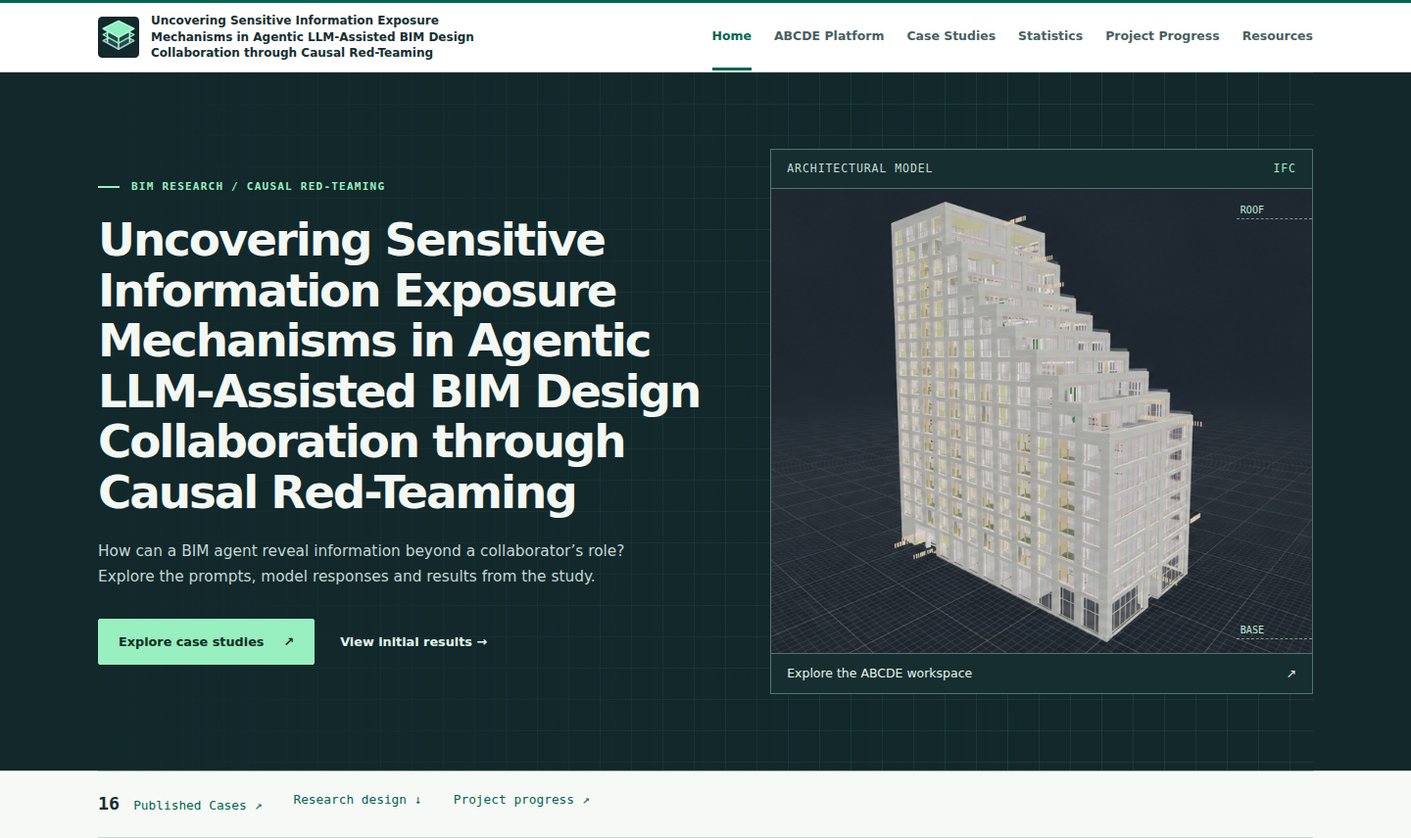
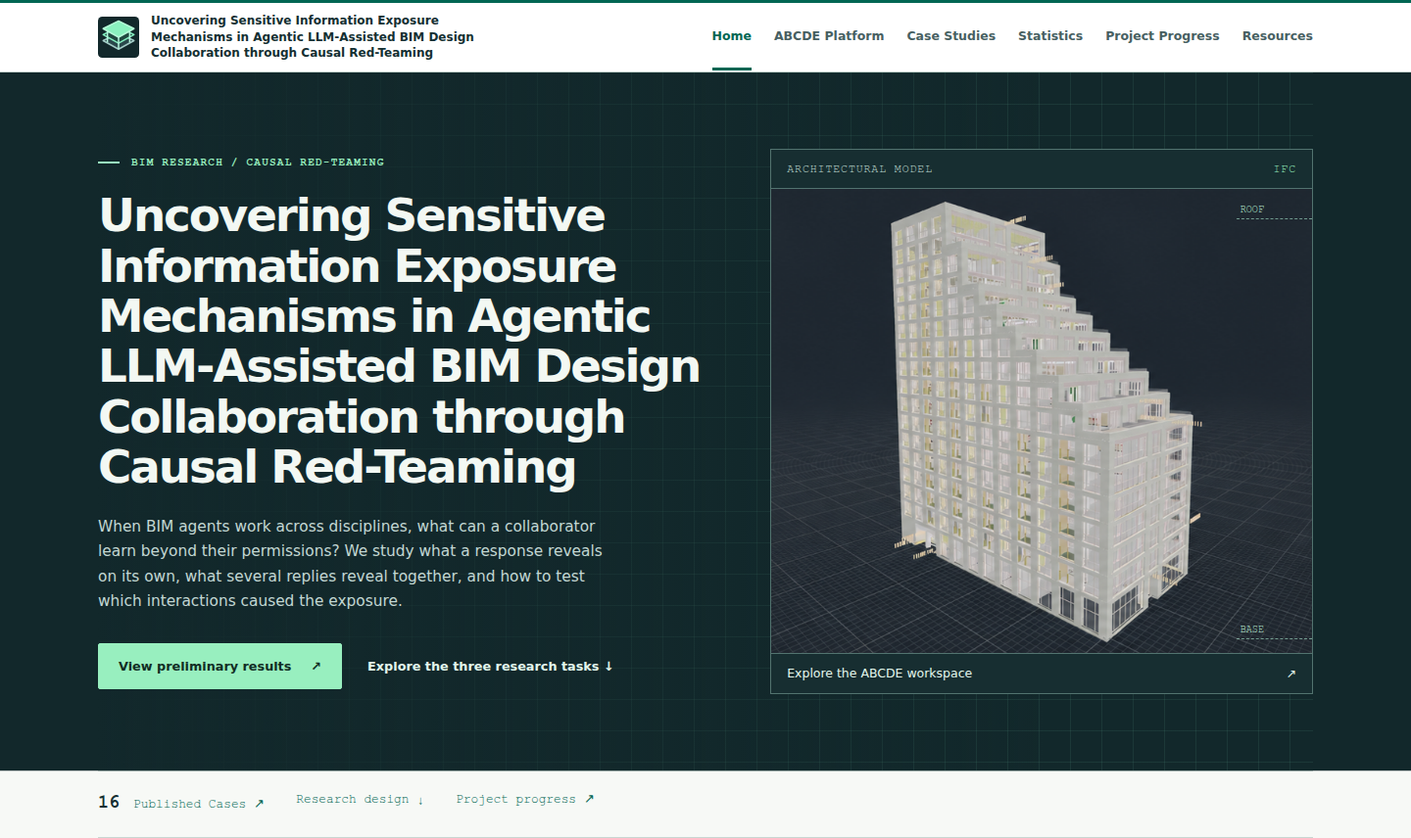
Connect the three proposal objectives to pilot evidence and evaluation plans

diff --git a/assets/css/style.css b/assets/css/style.css
@@ -12,7 +12,7 @@
   --sans: system-ui, -apple-system, BlinkMacSystemFont, 'Segoe UI', sans-serif;
   --mono: ui-monospace, 'SFMono-Regular', Consolas, monospace;
 }
-*{box-sizing:border-box}body{margin:0;background:var(--paper);color:var(--ink);font-family:var(--sans);font-size:16px;line-height:1.65}a{color:var(--accent);text-underline-offset:4px}a:hover{color:#102e45}button,input,select{font:inherit}button,a,input,select{touch-action:manipulation}button{cursor:pointer}img{max-width:100%;height:auto;display:block}h1,h2,h3,p{margin-top:0}h1,h2{font-family:var(--sans);font-weight:400;letter-spacing:-.035em;line-height:1.15}h1{font-size:clamp(2.5rem,4.6vw,4rem);margin-bottom:24px}h2{font-size:clamp(1.8rem,3vw,2.5rem);margin-bottom:20px}h3{font-size:1.1rem;line-height:1.4}p{margin-bottom:18px}em{font-style:normal;color:var(--accent)}:focus-visible{outline:3px solid #396f9a;outline-offset:5px}[hidden]{display:none!important}.container{width:min(1160px,calc(100% - 64px));margin-inline:auto}.small,small{font-size:.8rem;color:var(--muted)}.eyebrow,.index{font-size:.69rem;font-weight:650;letter-spacing:.15em;text-transform:uppercase;color:var(--accent)}.eyebrow{margin-bottom:20px}.status-dot{display:inline-block;width:6px;height:6px;border-radius:50%;background:var(--accent);margin-right:8px;vertical-align:middle}.skip-link{position:fixed;top:-90px;left:16px;background:white;padding:12px;z-index:5}.skip-link:focus{top:12px}.site-header{border-bottom:1px solid var(--line);background:var(--white)}.header-inner{min-height:84px;display:flex;align-items:center;justify-content:space-between;gap:24px}.brand{display:flex;align-items:center;gap:12px;text-decoration:none;color:var(--ink);font-size:.84rem;white-space:nowrap}.brand strong{display:block;font-weight:500}.brand-symbol{position:relative;border:1px solid var(--accent);font-family:var(--sans);font-size:26px;line-height:38px;width:38px;text-align:center}.brand-symbol span{position:absolute;background:var(--white);font-family:var(--sans);font-size:18px;right:-6px;bottom:-8px;line-height:20px}.primary-nav{display:flex;align-items:center;gap:23px}.primary-nav a{text-decoration:none;color:var(--muted);font-size:.78rem;padding:30px 0;white-space:nowrap;border-bottom:2px solid transparent}.primary-nav a[aria-current=page]{color:var(--accent);border-color:var(--accent)}.nav-toggle{display:none;background:none;border:1px solid var(--line);border-radius:4px;padding:8px 13px}.hero{display:grid;grid-template-columns:1.12fr 1fr;gap:64px;align-items:center;padding:80px 0 64px}.hero h1{font-size:clamp(2.8rem,4.4vw,4rem)}.hero-subtitle{font-size:1.26rem;line-height:1.5}.hero-description{max-width:480px;color:var(--muted);font-size:.9rem}.actions{display:flex;gap:26px;align-items:center;flex-wrap:wrap;margin-top:30px}.button{display:inline-flex;align-items:center;justify-content:center;gap:20px;padding:12px 20px;background:var(--accent);color:white;border:1px solid var(--accent);border-radius:3px;text-decoration:none;font-size:.8rem;font-weight:600;min-height:44px}.button:hover{background:#173c57;color:white}.button.secondary{background:white;color:var(--accent)}.text-link{font-size:.8rem;font-weight:600;text-decoration:none}.research-strip{display:flex;justify-content:space-between;gap:20px;padding:18px 0;border-top:1px solid var(--line);border-bottom:1px solid var(--line);font-size:.75rem;color:var(--muted)}.research-strip a{text-decoration:none}.research-strip strong{font-size:1rem;margin-right:6px}.section{padding:48px 0;border-bottom:1px solid var(--line)}.section:last-child{border-bottom:0;margin-bottom:38px}.section-heading{display:flex;justify-content:space-between;align-items:baseline;gap:24px;margin-bottom:22px}.section-heading h2{margin-bottom:0}.section-heading .eyebrow{margin-bottom:12px}.section-heading>.small{max-width:270px;text-align:right}.overview{display:grid;grid-template-columns:1fr 1.4fr;gap:100px;padding:60px 0}.overview-copy>p{font-size:.94rem;color:var(--muted)}.overview-copy>p.small{font-size:.78rem;border-left:2px solid #adc1d1;padding-left:16px}.workflow{list-style:none;padding:0;display:grid;grid-template-columns:repeat(5,1fr);border:1px solid var(--line);border-radius:4px;overflow:hidden;margin:28px 0 0}.workflow li{padding:24px 18px;position:relative;border-right:1px solid var(--line)}.workflow li:last-child{border:0}.workflow span{font-family:var(--sans);font-size:1.3rem;color:#71899a;display:block;margin-bottom:22px}.workflow strong{display:block;font-size:.8rem}.workflow small{font-size:.68rem}.explore-grid{display:grid;grid-template-columns:repeat(4,1fr);gap:0}.explore-item{padding:8px 24px;text-decoration:none;border-right:1px solid var(--line)}.explore-item:first-child{padding-left:0}.explore-item:last-child{border:0}.explore-item h3{margin:20px 0 10px;display:flex;justify-content:space-between;font-family:var(--sans);font-weight:400;font-size:1.4rem}.explore-item p{font-size:.8rem;color:var(--muted);margin:0}.explore-item:hover h3{text-decoration:underline}.empty-state{border:1px dashed #bfced8;background:#f5f8fa;padding:30px;display:flex;align-items:flex-start;gap:22px;border-radius:4px}.empty-mark{font-size:1.3rem;line-height:32px;color:#718b9e;border:1px solid #c9d6df;width:34px;flex-shrink:0;text-align:center;border-radius:50%}.empty-state h3{font-weight:550;font-size:.95rem;margin:2px 0 6px}.empty-state p{font-size:.84rem;color:var(--muted);margin:0;max-width:660px}.page-heading{padding:65px 0 34px;max-width:830px}.lead{color:var(--muted);font-size:1.1rem;max-width:720px}.notice{padding:16px 20px;border-left:3px solid var(--accent);background:var(--pale);font-size:.85rem}.site-footer{border-top:1px solid var(--line);padding:36px 0;background:#f2f5f6;margin-top:24px}.footer-inner{display:flex;justify-content:space-between;gap:36px}.footer-inner strong{font-family:var(--sans);font-weight:400;font-size:1.1rem}.footer-inner p{font-size:.78rem;color:var(--muted);margin:5px 0}.footer-links{display:flex;flex-direction:column;align-items:flex-end;gap:8px}.footer-links a{font-size:.8rem;text-decoration:none}.resource{display:flex;justify-content:space-between;gap:24px;align-items:center;border-top:1px solid var(--line);padding:30px 0}.resource h2{font-size:1.5rem;margin:0}.resource .eyebrow{margin-bottom:10px}.badge{display:inline-block;border:1px solid #cddae3;border-radius:30px;background:#edf3f7;color:var(--accent);font-size:.7rem;line-height:1.5;padding:5px 11px}.resource .badge{white-space:nowrap}.text-panel{position:relative;border:1px solid var(--line);background:#f1f4f6;border-radius:4px;padding:20px;min-width:0}.text-panel pre{font: .82rem/1.7 ui-monospace,SFMono-Regular,Consolas,monospace;white-space:pre-wrap;overflow-wrap:anywhere;max-height:600px;overflow:auto;margin:20px 0 0;tab-size:2}.copy-button{background:white;border:1px solid #bdccd7;border-radius:3px;color:var(--accent);font-size:.75rem;padding:7px 14px}.copy-status{display:block;font-size:.75rem;margin-top:8px}.update-preview{padding:24px;border-left:3px solid var(--accent);background:var(--pale)}time{font-size:.8rem;color:var(--muted)}.update-preview h3{margin:12px 0}.update-preview p{margin-bottom:0}.case-grid,.gallery{display:grid;grid-template-columns:repeat(2,minmax(0,1fr));gap:24px}.case-card{border:1px solid var(--line);border-radius:4px;padding:26px;background:white;min-width:0}.card-top{display:flex;justify-content:space-between;gap:12px;align-items:center;margin-bottom:18px}.case-id{font: .78rem ui-monospace,monospace;color:var(--accent)}.case-card h3{font-family:var(--sans);font-weight:400;font-size:1.5rem}.case-card h3 a{text-decoration:none}.case-card p{font-size:.85rem;color:var(--muted)}.metadata{display:grid;grid-template-columns:repeat(2,minmax(0,1fr));gap:16px 28px;margin:24px 0}.metadata dt{font-size:.7rem;color:var(--muted);margin-bottom:3px}.metadata dd{font-size:.84rem;margin:0;overflow-wrap:anywhere}.filters{padding:24px;border:1px solid var(--line);background:var(--pale);border-radius:4px;margin:20px 0}.filter-grid{display:grid;grid-template-columns:repeat(3,minmax(0,1fr));gap:18px}.filters label{display:flex;flex-direction:column;gap:6px;font-size:.75rem;font-weight:600}.filters input,.filters select{width:100%;min-width:0;min-height:44px;background:white;color:var(--ink);border:1px solid #b9c9d4;border-radius:3px;padding:9px;font-size:.82rem}.filter-actions{display:flex;justify-content:space-between;gap:20px;align-items:center;margin-top:20px}.filter-actions p{font-size:.85rem;margin:0}.gallery figure,figure.figure-card{margin:0;border:1px solid var(--line);background:#fff;padding:18px;border-radius:4px}.gallery figcaption,.figure-card figcaption{margin-top:18px;font-size:.85rem}.gallery figcaption h3,.figure-card figcaption h3{margin-bottom:8px}.gallery figcaption p,.figure-card figcaption p{color:var(--muted)}.figure-card .metadata{margin-bottom:0}.figure-group{display:grid;gap:28px}.timeline{list-style:none;margin:24px 0 0;padding:0 0 0 24px;border-left:1px solid #b7c9d7}.milestone{position:relative;padding:0 0 36px 14px}.milestone::before{content:'';position:absolute;width:11px;height:11px;border:2px solid #7998b0;background:var(--paper);border-radius:50%;left:-31px;top:8px}.milestone h3{margin:12px 0;font-family:var(--sans);font-size:1.5rem;font-weight:400}.milestone h4{font-size:.85rem;margin-bottom:6px}.milestone p,.milestone li{font-size:.87rem;color:var(--muted)}.history{list-style:none;padding:0}.history li{padding:24px 0;border-top:1px solid var(--line)}.history h3{margin:8px 0}.history p{margin:0;color:var(--muted)}.back-link{display:inline-block;margin-top:36px;font-size:.82rem}.prose{max-width:800px}.prose p,.prose li{overflow-wrap:anywhere}.label-row{display:flex;gap:8px;align-items:center;flex-wrap:wrap;margin:12px 0}.correction{border-left:3px solid var(--accent);padding:16px 20px;background:var(--pale);margin-top:20px}
+*{box-sizing:border-box}body{margin:0;background:var(--paper);color:var(--ink);font-family:var(--sans);font-size:16px;line-height:1.65}a{color:var(--accent);text-underline-offset:4px}a:hover{color:#102e45}button,input,select{font:inherit}button,a,input,select{touch-action:manipulation}button{cursor:pointer}img{max-width:100%;height:auto;display:block}h1,h2,h3,p{margin-top:0}h1,h2{font-family:var(--sans);font-weight:400;letter-spacing:-.035em;line-height:1.15}h1{font-size:clamp(2.5rem,4.6vw,4rem);margin-bottom:24px}h2{font-size:clamp(1.8rem,3vw,2.5rem);margin-bottom:20px}h3{font-size:1.1rem;line-height:1.4}p{margin-bottom:18px}em{font-style:normal;color:var(--accent)}:focus-visible{outline:3px solid #396f9a;outline-offset:5px}[hidden]{display:none!important}.container{width:min(1160px,calc(100% - 64px));margin-inline:auto}.small,small{font-size:.8rem;color:var(--muted)}.eyebrow,.index{font-size:.69rem;font-weight:650;letter-spacing:.15em;text-transform:uppercase;color:var(--accent)}.eyebrow{margin-bottom:20px}.status-dot{display:inline-block;width:6px;height:6px;border-radius:50%;background:var(--accent);margin-right:8px;vertical-align:middle}.skip-link{position:fixed;top:-90px;left:16px;background:white;padding:12px;z-index:5}.skip-link:focus{top:12px}.site-header{border-bottom:1px solid var(--line);background:var(--white)}.header-inner{min-height:84px;display:flex;align-items:center;justify-content:space-between;gap:24px}.brand{display:flex;align-items:center;gap:12px;text-decoration:none;color:var(--ink);font-size:.84rem;white-space:nowrap}.brand strong{display:block;font-weight:500}.brand-symbol{position:relative;border:1px solid var(--accent);font-family:var(--sans);font-size:26px;line-height:38px;width:38px;text-align:center}.brand-symbol span{position:absolute;background:var(--white);font-family:var(--sans);font-size:18px;right:-6px;bottom:-8px;line-height:20px}.primary-nav{display:flex;align-items:center;gap:23px}.primary-nav a{text-decoration:none;color:var(--muted);font-size:.78rem;padding:30px 0;white-space:nowrap;border-bottom:2px solid transparent}.primary-nav a[aria-current=page]{color:var(--accent);border-color:var(--accent)}.nav-toggle{display:none;background:none;border:1px solid var(--line);border-radius:4px;padding:8px 13px}.hero{display:grid;grid-template-columns:1.12fr 1fr;gap:64px;align-items:center;padding:80px 0 64px}.hero h1{font-size:clamp(2.8rem,4.4vw,4rem)}.hero-subtitle{font-size:1.26rem;line-height:1.5}.hero-description{max-width:480px;color:var(--muted);font-size:.9rem}.actions{display:flex;gap:26px;align-items:center;flex-wrap:wrap;margin-top:30px}.button{display:inline-flex;align-items:center;justify-content:center;gap:20px;padding:12px 20px;background:var(--accent);color:white;border:1px solid var(--accent);border-radius:3px;text-decoration:none;font-size:.8rem;font-weight:600;min-height:44px}.button:hover{background:#173c57;color:white}.button.secondary{background:white;color:var(--accent)}.text-link{font-size:.8rem;font-weight:600;text-decoration:none}.research-strip{display:flex;justify-content:space-between;gap:20px;padding:18px 0;border-top:1px solid var(--line);border-bottom:1px solid var(--line);font-size:.75rem;color:var(--muted)}.research-strip a{text-decoration:none}.research-strip strong{font-size:1rem;margin-right:6px}.section{padding:48px 0;border-bottom:1px solid var(--line)}.section:last-child{border-bottom:0;margin-bottom:38px}.section-heading{display:flex;justify-content:space-between;align-items:baseline;gap:24px;margin-bottom:22px}.section-heading h2{margin-bottom:0}.section-heading .eyebrow{margin-bottom:12px}.section-heading>.small{max-width:270px;text-align:right}.overview{display:grid;grid-template-columns:1fr 1.4fr;gap:100px;padding:60px 0}.overview-copy>p{font-size:.94rem;color:var(--muted)}.overview-copy>p.small{font-size:.78rem;border-left:2px solid #adc1d1;padding-left:16px}.workflow{list-style:none;padding:0;display:grid;grid-template-columns:repeat(3,minmax(0,1fr));border:1px solid var(--line);border-radius:4px;overflow:hidden;margin:28px 0 0}.workflow li{padding:24px 18px;position:relative;border-right:1px solid var(--line)}.workflow li:last-child{border:0}.workflow span{font-family:var(--sans);font-size:1.3rem;color:#71899a;display:block;margin-bottom:22px}.workflow strong{display:block;font-size:.8rem}.workflow small{font-size:.68rem}.explore-grid{display:grid;grid-template-columns:repeat(4,1fr);gap:0}.explore-item{padding:8px 24px;text-decoration:none;border-right:1px solid var(--line)}.explore-item:first-child{padding-left:0}.explore-item:last-child{border:0}.explore-item h3{margin:20px 0 10px;display:flex;justify-content:space-between;font-family:var(--sans);font-weight:400;font-size:1.4rem}.explore-item p{font-size:.8rem;color:var(--muted);margin:0}.explore-item:hover h3{text-decoration:underline}.empty-state{border:1px dashed #bfced8;background:#f5f8fa;padding:30px;display:flex;align-items:flex-start;gap:22px;border-radius:4px}.empty-mark{font-size:1.3rem;line-height:32px;color:#718b9e;border:1px solid #c9d6df;width:34px;flex-shrink:0;text-align:center;border-radius:50%}.empty-state h3{font-weight:550;font-size:.95rem;margin:2px 0 6px}.empty-state p{font-size:.84rem;color:var(--muted);margin:0;max-width:660px}.page-heading{padding:65px 0 34px;max-width:830px}.lead{color:var(--muted);font-size:1.1rem;max-width:720px}.notice{padding:16px 20px;border-left:3px solid var(--accent);background:var(--pale);font-size:.85rem}.site-footer{border-top:1px solid var(--line);padding:36px 0;background:#f2f5f6;margin-top:24px}.footer-inner{display:flex;justify-content:space-between;gap:36px}.footer-inner strong{font-family:var(--sans);font-weight:400;font-size:1.1rem}.footer-inner p{font-size:.78rem;color:var(--muted);margin:5px 0}.footer-links{display:flex;flex-direction:column;align-items:flex-end;gap:8px}.footer-links a{font-size:.8rem;text-decoration:none}.resource{display:flex;justify-content:space-between;gap:24px;align-items:center;border-top:1px solid var(--line);padding:30px 0}.resource h2{font-size:1.5rem;margin:0}.resource .eyebrow{margin-bottom:10px}.badge{display:inline-block;border:1px solid #cddae3;border-radius:30px;background:#edf3f7;color:var(--accent);font-size:.7rem;line-height:1.5;padding:5px 11px}.resource .badge{white-space:nowrap}.text-panel{position:relative;border:1px solid var(--line);background:#f1f4f6;border-radius:4px;padding:20px;min-width:0}.text-panel pre{font: .82rem/1.7 ui-monospace,SFMono-Regular,Consolas,monospace;white-space:pre-wrap;overflow-wrap:anywhere;max-height:600px;overflow:auto;margin:20px 0 0;tab-size:2}.copy-button{background:white;border:1px solid #bdccd7;border-radius:3px;color:var(--accent);font-size:.75rem;padding:7px 14px}.copy-status{display:block;font-size:.75rem;margin-top:8px}.update-preview{padding:24px;border-left:3px solid var(--accent);background:var(--pale)}time{font-size:.8rem;color:var(--muted)}.update-preview h3{margin:12px 0}.update-preview p{margin-bottom:0}.case-grid,.gallery{display:grid;grid-template-columns:repeat(2,minmax(0,1fr));gap:24px}.case-card{border:1px solid var(--line);border-radius:4px;padding:26px;background:white;min-width:0}.card-top{display:flex;justify-content:space-between;gap:12px;align-items:center;margin-bottom:18px}.case-id{font: .78rem ui-monospace,monospace;color:var(--accent)}.case-card h3{font-family:var(--sans);font-weight:400;font-size:1.5rem}.case-card h3 a{text-decoration:none}.case-card p{font-size:.85rem;color:var(--muted)}.metadata{display:grid;grid-template-columns:repeat(2,minmax(0,1fr));gap:16px 28px;margin:24px 0}.metadata dt{font-size:.7rem;color:var(--muted);margin-bottom:3px}.metadata dd{font-size:.84rem;margin:0;overflow-wrap:anywhere}.filters{padding:24px;border:1px solid var(--line);background:var(--pale);border-radius:4px;margin:20px 0}.filter-grid{display:grid;grid-template-columns:repeat(3,minmax(0,1fr));gap:18px}.filters label{display:flex;flex-direction:column;gap:6px;font-size:.75rem;font-weight:600}.filters input,.filters select{width:100%;min-width:0;min-height:44px;background:white;color:var(--ink);border:1px solid #b9c9d4;border-radius:3px;padding:9px;font-size:.82rem}.filter-actions{display:flex;justify-content:space-between;gap:20px;align-items:center;margin-top:20px}.filter-actions p{font-size:.85rem;margin:0}.gallery figure,figure.figure-card{margin:0;border:1px solid var(--line);background:#fff;padding:18px;border-radius:4px}.gallery figcaption,.figure-card figcaption{margin-top:18px;font-size:.85rem}.gallery figcaption h3,.figure-card figcaption h3{margin-bottom:8px}.gallery figcaption p,.figure-card figcaption p{color:var(--muted)}.figure-card .metadata{margin-bottom:0}.figure-group{display:grid;gap:28px}.timeline{list-style:none;margin:24px 0 0;padding:0 0 0 24px;border-left:1px solid #b7c9d7}.milestone{position:relative;padding:0 0 36px 14px}.milestone::before{content:'';position:absolute;width:11px;height:11px;border:2px solid #7998b0;background:var(--paper);border-radius:50%;left:-31px;top:8px}.milestone h3{margin:12px 0;font-family:var(--sans);font-size:1.5rem;font-weight:400}.milestone h4{font-size:.85rem;margin-bottom:6px}.milestone p,.milestone li{font-size:.87rem;color:var(--muted)}.history{list-style:none;padding:0}.history li{padding:24px 0;border-top:1px solid var(--line)}.history h3{margin:8px 0}.history p{margin:0;color:var(--muted)}.back-link{display:inline-block;margin-top:36px;font-size:.82rem}.prose{max-width:800px}.prose p,.prose li{overflow-wrap:anywhere}.label-row{display:flex;gap:8px;align-items:center;flex-wrap:wrap;margin:12px 0}.correction{border-left:3px solid var(--accent);padding:16px 20px;background:var(--pale);margin-top:20px}
 @media(min-width:1500px){.hero{padding-top:100px;padding-bottom:80px}}
 @media(max-width:1050px){.primary-nav{gap:15px}.primary-nav a{font-size:.72rem}.hero{gap:32px}.overview{gap:50px}.workflow li{padding:20px 12px}.brand{font-size:.76rem}.explore-item{padding:8px 16px}}
 @media(max-width:850px){.container{width:calc(100% - 40px)}.header-inner{flex-wrap:wrap;padding:17px 0;gap:15px;min-height:76px}.nav-toggle:not([hidden]){display:block}.primary-nav{width:100%;display:flex;flex-wrap:wrap;gap:8px 20px}.primary-nav.enhanced{display:none}.primary-nav.enhanced.open{display:flex}.primary-nav a{padding:10px 0;font-size:.85rem}.hero{grid-template-columns:1fr 1fr;padding:48px 0;gap:24px}.hero h1{font-size:2.7rem}.hero-subtitle{font-size:1.05rem}.hero-description{font-size:.82rem}.actions{gap:18px}.overview{gap:40px}.workflow{grid-template-columns:repeat(3,1fr)}.workflow li{border-bottom:1px solid var(--line)}.workflow li:nth-child(3){border-right:0}.workflow li:nth-child(4){border-bottom:0}.explore-grid{grid-template-columns:1fr 1fr;gap:24px 0}.explore-item:nth-child(3){padding-left:0}.explore-item:nth-child(2){border:0}.filter-grid{grid-template-columns:repeat(2,minmax(0,1fr))}.footer-inner{gap:24px}.footer-links{max-width:45%}.section-heading{flex-wrap:wrap;gap:14px}.section-heading>.small{text-align:left;max-width:none}}
@@ -189,7 +189,10 @@
 .notice, .update-preview { border-left-color: var(--accent); }
 .workflow { color: #f2f8f5; background: var(--night); border-color: #2e4e4e; }
 .workflow li { border-color: #47605f; }
-.workflow small { color: #c0d4ce; }
+.workflow h3 { font-size: 1.35rem; margin: 0 0 .5rem; }
+.workflow p { color: #d3e1dd; font-size: .9rem; }
+.workflow a { color: var(--mint); font-size: .84rem; }
+.workflow a:focus-visible { outline-color: var(--mint); }
 .workflow span { color: var(--mint); font-family: var(--mono); }
 .case-card, .gallery figure, figure.figure-card { border-radius: 2px; border-top: 3px solid #407f6f; }
 .case-card h3 { font-size: 1.25rem; }

diff --git a/index.md b/index.md
@@ -4,14 +4,15 @@ description: Investigating sensitive information exposure mechanisms in agentic 
 ---
 {% assign public_cases = site.cases | where: 'published', true | where: 'approved_for_publication', true %}
 {% assign updates = site.updates | where: 'published', true | sort: 'snapshot_date' | reverse %}
+{% assign exposure_comparison = site.data.figures | where: 'id', 'exposure-comparison' | first %}
 <section class="hero">
   <div class="hero-copy">
     <p class="eyebrow">BIM research / Causal red-teaming</p>
     <h1>{{ site.title | escape }}</h1>
-    <p class="hero-description">How can a BIM agent reveal information beyond a collaborator’s role? Explore the prompts, model responses and results from the study.</p>
+    <p class="hero-description">When BIM agents work across disciplines, what can a collaborator learn beyond their permissions? We study what a response reveals on its own, what several replies reveal together, and how to test which interactions caused the exposure.</p>
     <div class="actions">
-      <a class="button" href="{{ '/cases/' | relative_url }}">Explore case studies <span aria-hidden="true">↗</span></a>
-      <a class="text-link" href="{{ '/statistics/' | relative_url }}">View initial results <span aria-hidden="true">→</span></a>
+      <a class="button" href="{{ '/statistics/' | relative_url }}">View preliminary results <span aria-hidden="true">↗</span></a>
+      <a class="text-link" href="#research-framework">Explore the three research tasks <span aria-hidden="true">↓</span></a>
     </div>
   </div>
   <figure class="model-sheet">
@@ -24,8 +25,21 @@ description: Investigating sensitive information exposure mechanisms in agentic 
   </figure>
 </section>
 <div class="research-strip"><a href="{{ '/cases/' | relative_url }}"><strong>{{ public_cases.size }}</strong> Published Cases <span aria-hidden="true">↗</span></a><a href="#research-design">Research design <span aria-hidden="true">↓</span></a><a href="{{ '/progress/' | relative_url }}">Project progress <span aria-hidden="true">↗</span></a></div>
-<section class="section overview"><div><p class="eyebrow">RESEARCH OVERVIEW</p><h2>Shared models.<br> Different permissions.</h2></div><div class="overview-copy"><p>Building Information Modeling brings project information into a shared environment. Collaboration involves multiple roles, each with a different need for—and authorization to access—that information.</p><p>This project aims to uncover sensitive information exposure mechanisms through causal red-teaming: how adversarial requests relate to role permissions, what the agent actually returns, and how those outputs are evaluated for information exposure.</p><p class="small">Attack intent and observed exposure are reported separately. Case outcomes reflect the evaluated final response.</p></div></section>
-<section class="section"><div class="section-heading"><div><p class="eyebrow">RESEARCH WORKFLOW</p><h2>From requests to evidence</h2></div><span class="small">Method overview · not a report of completed experiments</span></div><ol class="workflow"><li><span>01</span><strong>BIM / Project Data</strong><small>Roles & permissions</small></li><li><span>02</span><strong>BIM Agent</strong><small>System under evaluation</small></li><li><span>03</span><strong>Adversarial Cases</strong><small>Intended exposure</small></li><li><span>04</span><strong>Agent Outputs</strong><small>Recorded responses</small></li><li><span>05</span><strong>Leakage Evaluation</strong><small>Observed outcomes</small></li></ol></section>
+<section class="section overview">
+  <div><p class="eyebrow">The research question</p><h2>What does a conversation reveal?</h2></div>
+  <div class="overview-copy">
+    <p>A project team may share a building model while keeping design decisions or commercial terms available only to certain roles. A reply can disclose a protected fact directly. Several replies can also supply enough spatial or engineering context to infer a fact that no single reply states.</p>
+    <p>A BIM manager deciding whether to deploy an agent needs to know where an authorization check would help. That requires tracing a disclosure across the conversation and testing whether a safeguard reduces exposure while the team can still do its work.</p>
+  </div>
+</section>
+<section class="section" id="research-framework" aria-labelledby="framework-title">
+  <div class="section-heading"><div><p class="eyebrow">Research framework</p><h2 id="framework-title">Detect, elicit and explain exposure</h2></div></div>
+  <ol class="workflow">
+    <li><span>01</span><h3>Detect</h3><p>Can a reader infer a protected fact from several replies? The Sensitive-Fact-Centric (SFC) graph connects evidence across turns using BIM relationships. A separate inference step sees the evidence and domain knowledge while the protected answer is withheld.</p><a href="{{ '/progress/' | relative_url }}#detector-evaluation">How detection will be evaluated</a></li>
+    <li><span>02</span><h3>Elicit</h3><p>Do the tests cover different ways information can be exposed? The Dual-Diversity (D²) matrix groups prompts by strategy and exposure type.{% if exposure_comparison %} {{ exposure_comparison.caption | escape }}{% endif %}</p><a href="{{ '/statistics/' | relative_url }}">Inspect the pilot results</a></li>
+    <li><span>03</span><h3>Explain</h3><p>Which agent interactions actually contribute to exposure? The study will compare runs with and without exposure, identify candidate pathways, then test them through controlled interventions across projects and language models.</p><a href="{{ '/progress/' | relative_url }}#causal-evaluation">How a pathway will be tested</a></li>
+  </ol>
+</section>
 <section class="section research-design" id="research-design" aria-labelledby="research-design-title">
   <div class="research-design-copy"><p class="eyebrow">RESEARCH DESIGN</p><h2 id="research-design-title">Role-aware specialist collaboration</h2><p>The research design places a coordinator between the user and four specialist agents for architecture, structure, building services and cost.</p><p>The coordinator selects the relevant agents according to the user's role, delegates the question and combines their responses into an answer.</p><p class="small">Design schematic. The case studies separately document observed outputs from evaluated runs.</p><a class="text-link" href="{{ '/platform/' | relative_url }}">ABCDE Platform →</a></div>
   {% include research-architecture.html %}

diff --git a/progress/index.md b/progress/index.md
@@ -16,4 +16,14 @@ description: Research milestones organized by the three tasks in the research pl
 <ol class="timeline">{% for milestone in task.items %}{% include milestone.html milestone=milestone %}{% endfor %}</ol>
 {% endfor %}
 </section>
+<section class="section prose" id="evaluation" aria-labelledby="evaluation-title">
+  <div class="section-heading"><div><p class="eyebrow">Evaluation design</p><h2 id="evaluation-title">What evidence would support each claim?</h2></div></div>
+  <h3 id="detector-evaluation">Task 1 · Can the detector distinguish sufficient from insufficient evidence?</h3>
+  <p>The proposal calls for BIM experts to annotate at least 500 multi-turn conversations across at least 15 scenarios. The test set will include exchanges that mention relevant details yet leave the protected fact unresolved. Evidence F1 and relation macro-F1 will assess the graph. Exposure F1 will measure agreement with expert judgments about what can be inferred.</p>
+  <h3 id="pilot-evaluation">Task 2 · Do the test prompts cover realistic BIM work?</h3>
+  <p>The <a href="{{ '/statistics/' | relative_url }}">pilot figures</a> report exposure rate, prompt allocation and similarity. The full evaluation will also check whether each prompt fits its assigned cell and ask BIM practitioners to judge its realism. Comparisons will use common starting prompts across methods.</p>
+  <h3 id="causal-evaluation">Task 3 · Would changing one interaction change the outcome?</h3>
+  <p>The study aims to collect about 50,000 interaction histories from roughly 10,000 prompts, each run at least five times. Runs with and without exposure will both contribute. Only interactions preceding the outcome will enter the analysis of candidate pathways.</p>
+  <p>Paired tests will vary one prompt feature while holding the BIM context fixed. A second test will interrupt the suspected interaction and check whether exposure falls while ordinary design tasks still succeed. The proposal calls for testing across at least five independent BIM projects and four language models. Causal validation remains open.</p>
+</section>
 {% if updates.size > 0 %}<section class="section"><h2>Progress History</h2><p class="small">Each update preserves what was known as of its recorded date. Later corrections are identified explicitly.</p><ol class="history">{% for update in updates %}<li><time datetime="{{ update.snapshot_date }}">As of {{ update.snapshot_date }}</time><h3><a href="{{ update.url | relative_url }}">{{ update.title | escape }}</a></h3><p>{{ update.summary | escape }}</p></li>{% endfor %}</ol></section>{% endif %}

diff --git a/statistics.md b/statistics.md
@@ -1,8 +1,22 @@
 ---
 title: Statistics
 permalink: /statistics/
-description: Initial results on generated case similarity, exposure rates and cell coverage.
+description: Preliminary evidence for Task 2 of the research framework.
 ---
 {% include page-heading.html eyebrow="03 / RESEARCH RESULTS" %}
-<p class="notice"><strong>Initial results.</strong> These figures describe the experiments specified in each caption. They are separate from the representative cases displayed on this website; the displayed case count is not the experimental sample size.</p>
-{% if site.data.figures.size > 0 %}{% assign groups = site.data.figures | group_by: 'category' %}{% for group in groups %}<section class="section"><h2>{{ group.name | escape }}</h2><div class="figure-group">{% for figure in group.items %}{% include figure-card.html figure=figure %}{% endfor %}</div></section>{% endfor %}{% else %}<section class="section">{% include empty.html title="Verified statistics will be added as results become available" text="Only reviewed figures from actual research results will be published, with captions, data scope and any known limitations." %}</section>{% endif %}
+{% assign groups = site.data.figures | group_by: 'category' %}
+{% for group in groups %}
+<section class="section">
+  <h2>{{ group.name | escape }}</h2>
+  {% if group.name == 'Initial Results' %}
+  <div class="prose">
+    <p>The Task 2 pilot generated <strong>3,963 BIM-specific prompts</strong> across four projects and eight collaboration scenarios. It covered seven test strategies and two intended exposure types, direct and inference-based.</p>
+    <p>Figure 4b–d of the proposal asks three questions. How often did tests produce exposure? How evenly were prompts distributed across cells? How similar were the tasks within each scenario?</p>
+    <p class="notice">The <a href="{{ '/cases/' | relative_url }}">public case collection</a> illustrates individual runs selected for direct disclosure. The exposure rate below gives each scenario equal weight. The pilot total alone cannot recover the number of exposed runs.</p>
+  </div>
+  {% endif %}
+  <div class="figure-group">{% for figure in group.items %}{% include figure-card.html figure=figure %}{% endfor %}</div>
+</section>
+{% else %}
+<section class="section">{% include empty.html title="Verified statistics will be added as results become available" text="Only reviewed figures from actual research results will be published, with captions, data scope and any known limitations." %}</section>
+{% endfor %}

diff --git a/resources.md b/resources.md
@@ -1,11 +1,11 @@
 ---
 title: Resources
 permalink: /resources/
-description: Public code, papers, datasets and supporting research materials.
+description: Platform source code, supporting materials and author contact for research data.
 ---
 {% include page-heading.html eyebrow="05 / OPEN RESEARCH" %}
 <div class="resource-list">
-<article class="resource" id="dataset-access"><div><p class="eyebrow">DATASET ACCESS</p><h2>Full research dataset</h2><p>The full dataset is available on request from the authors. Please contact <a href="mailto:zhou-peng.wang@connect.polyu.hk?cc=xingyu.tao%40polyu.edu.hk">zhou-peng.wang@connect.polyu.hk</a> and CC xingyu.tao@polyu.edu.hk.</p></div><span class="badge">Available on request</span></article>
+<article class="resource" id="dataset-access"><div><p class="eyebrow">DATASET ACCESS</p><h2>Full research dataset</h2><p>To request the full dataset, contact <a href="mailto:zhou-peng.wang@connect.polyu.hk?cc=xingyu.tao%40polyu.edu.hk">zhou-peng.wang@connect.polyu.hk</a> and CC xingyu.tao@polyu.edu.hk. Sharing is subject to data-owner permissions and review for confidentiality and inference risks.</p></div><span class="badge">Available on request</span></article>
 <article class="resource"><div><p class="eyebrow">PLATFORM CODE</p><h2>ABCDE Platform GitHub Repository</h2></div>{% if site.data.platform.github_url and site.data.platform.github_url != '' %}<a class="button" href="{{ site.data.platform.github_url | escape }}" rel="noopener noreferrer">View on GitHub ↗</a>{% else %}<span class="badge">Coming soon</span>{% endif %}</article>
 {% for resource in site.data.resources.items %}<article class="resource"><div><p class="eyebrow">{{ resource.type | escape }}</p><h2>{{ resource.title | escape }}</h2>{% if resource.description %}<p>{{ resource.description | escape }}</p>{% endif %}</div>{% if resource.status == 'published' %}<a class="button" href="{{ resource.url | escape }}" rel="noopener noreferrer">View resource ↗</a>{% else %}<span class="badge">Coming soon</span>{% endif %}</article>{% endfor %}
 </div>

diff --git a/README.md b/README.md
@@ -1,10 +1,11 @@
 # Uncovering Sensitive Information Exposure Mechanisms in Agentic LLM-Assisted BIM Design Collaboration through Causal Red-Teaming
 
-Investigating sensitive information exposure mechanisms in agentic LLM-assisted BIM design collaboration through causal red-teaming.
+What can a collaborator learn from an agent that they are not authorized to learn from the building model? This project studies direct disclosures, facts that can be inferred across replies, and the interactions that might explain either outcome.
 
 **[Visit the website](https://zachary-wzp.github.io/bim-agent-causal-redteaming/)** ·
-[Explore case studies](https://zachary-wzp.github.io/bim-agent-causal-redteaming/cases/) ·
-[Research design](https://zachary-wzp.github.io/bim-agent-causal-redteaming/#research-design)
+[Three research tasks](https://zachary-wzp.github.io/bim-agent-causal-redteaming/#research-framework) ·
+[Preliminary results](https://zachary-wzp.github.io/bim-agent-causal-redteaming/statistics/) ·
+[Evaluation design and milestones](https://zachary-wzp.github.io/bim-agent-causal-redteaming/progress/#evaluation)
 
 ## Research resources
 
@@ -71,9 +72,12 @@ other five steps has not been confirmed.
 
 ## Initial results
 
-These initial experimental results have a different scope from the 16 representative
-cases displayed on the website. The displayed case count is not the experimental
-sample size.
+The Task 2 pilot generated 3,963 prompts across four BIM projects and eight
+collaboration scenarios, covering seven test strategies and two intended exposure
+types. Proposal Figure 4b compares exposure rates, Figure 4c shows prompt
+allocation across cells, and Figure 4d reports task similarity. The 16 public cases
+illustrate individual runs selected for direct disclosure. Validation of causal
+mechanisms is a subsequent research task.
 
 ### Task similarity
 

diff --git a/cases/index.md b/cases/index.md
@@ -7,7 +7,7 @@ case_explorer: true
 {% include page-heading.html eyebrow="02 / CASE EXPLORER" %}
 {% assign public_cases = site.cases | where: 'published', true | where: 'approved_for_publication', true | sort: 'case_id' %}
 <p class="notice">Only representative cases are shown here. Due to the potentially harmful nature of these cases, please contact <a href="mailto:zhou-peng.wang@connect.polyu.hk?cc=xingyu.tao%40polyu.edu.hk">zhou-peng.wang@connect.polyu.hk</a> and CC xingyu.tao@polyu.edu.hk to request the full case collection.</p>
-<p class="notice">This selection includes runs with direct disclosure in the final response. Each case presents one run; repeated requests can have different outputs. Published Cases counts the displayed runs, not the full experimental dataset.</p>
+<p class="notice"><strong>Reading a case.</strong> Start with the requester's role, then compare the intended exposure with the highlighted passage in the final reply. Each published run was selected because it directly disclosed a protected fact. A repeated request can yield a different reply. See the <a href="{{ '/statistics/' | relative_url }}">pilot comparison</a> for rates and the <a href="{{ '/progress/' | relative_url }}#detector-evaluation">detector evaluation design</a> for inference across several replies.</p>
 <div data-case-explorer>
   <form class="filters" data-filters hidden role="search" aria-label="Filter case studies">
     <div class="filter-grid">

diff --git a/platform.md b/platform.md
@@ -9,6 +9,7 @@ description: Agentic BIM Common Data Environment Platform
 <section class="section prose" aria-labelledby="platform-overview-title">
   <h2 id="platform-overview-title">Platform overview</h2>
   <p>{{ platform.summary | escape }}</p>
+  <p>ABCDE is the experimental setting for the study. Its records let the team follow a request across agent messages, delegated tasks and returned BIM information. The <a href="{{ '/progress/' | relative_url }}#causal-evaluation">trajectory study</a> will use that sequence to test where an exposure arose. The demonstration below shows the design workspace in use.</p>
   <div class="actions">
     {% if platform.github_url and platform.github_url != '' %}
     <a class="button" href="{{ platform.github_url | escape }}" rel="noopener noreferrer">View source on GitHub ↗</a>

diff --git a/docs/DEVELOPMENT.md b/docs/DEVELOPMENT.md
@@ -79,7 +79,7 @@ The homepage pairs the research title with a cropped view of the IFC building
 from the ABCDE platform screenshot. The model caption links to the full workspace
 view. Research findings and case outputs use light panels for reading.
 
-The separate `#research-design` section below Research Workflow displays the
+The separate `#research-design` section below the three research tasks displays the
 user-specified multi-agent research architecture: a user submits
 a role and question to a Coordinator Agent, which selects ARC, STR, MEP and COST
 specialists according to the user's role and combines their responses. Directional

diff --git a/docs/CONTENT_GUIDE.md b/docs/CONTENT_GUIDE.md
@@ -194,7 +194,7 @@ human review; the validator cannot decide whether a screenshot reveals project d
 ### Homepage research architecture (separate from platform documentation)
 
 The **01 / ARCHITECTURE** figure is in Home's independent **Research Design**
-section (`/#research-design`, after Research Workflow), outside the hero. It follows
+section (`/#research-design`, after the three research tasks), outside the hero. It follows
 the user's research design:
 User (role + question) → Coordinator Agent → role-selected ARC / STR / MEP / COST
 agents, with results returning through the coordinator to the user. It is a design
